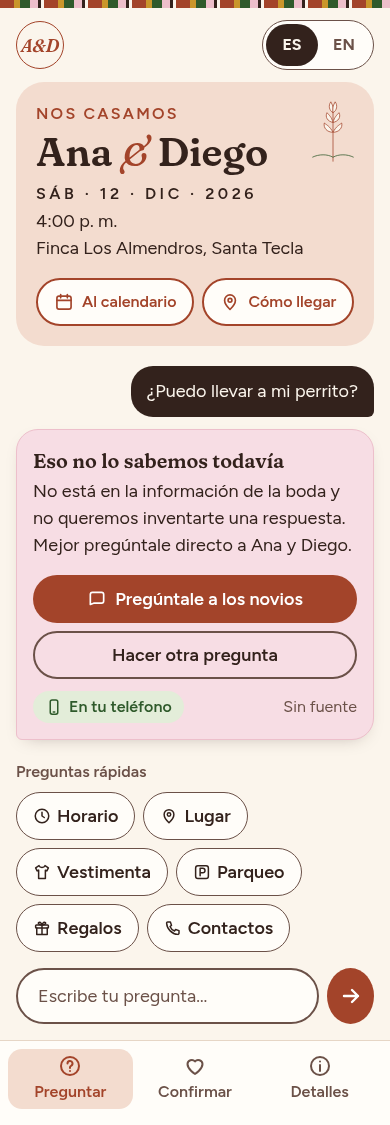
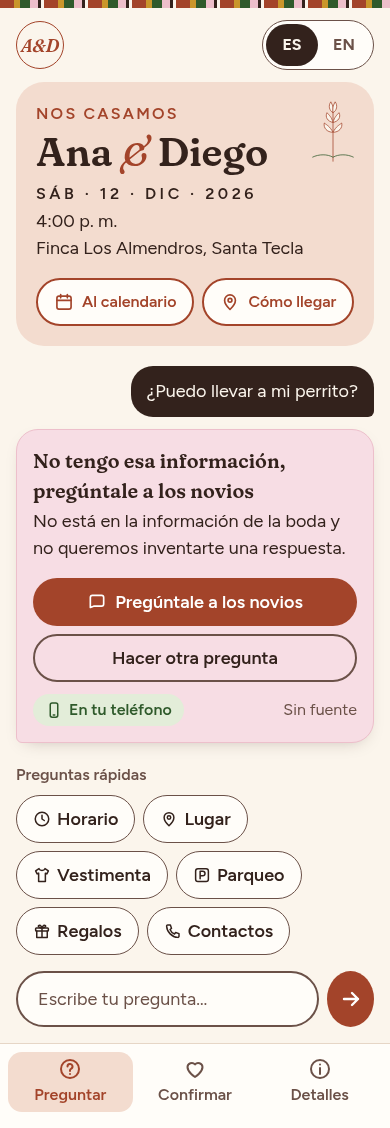
Update idk screen copy and tokens spec

diff --git a/design/screens/guest-qa-idk.html b/design/screens/guest-qa-idk.html
@@ -33,7 +33,7 @@
   <div class="row gap-2 g-hero-actions"><a class="btn btn-secondary"><svg width="20" height="20" viewBox="0 0 24 24" fill="none" stroke="currentColor" stroke-width="2" stroke-linecap="round" stroke-linejoin="round" aria-hidden="true"><rect x="3.5" y="5" width="17" height="15.5" rx="2.5"/><path d="M3.5 10h17M8 3v4M16 3v4"/></svg>Al calendario</a><a class="btn btn-secondary"><svg width="20" height="20" viewBox="0 0 24 24" fill="none" stroke="currentColor" stroke-width="2" stroke-linecap="round" stroke-linejoin="round" aria-hidden="true"><path d="M12 21s-6.5-6-6.5-11a6.5 6.5 0 0 1 13 0c0 5-6.5 11-6.5 11z"/><circle cx="12" cy="10" r="2.3"/></svg>Cómo llegar</a></div>
 </section><main class="g-main" aria-live="polite">
 <div class="bubble-q">¿Puedo llevar a mi perrito?</div>
-<div class="bubble-a" style="border-color:var(--color-accent);background:var(--color-accent-soft)"><h4>Eso no lo sabemos todavía</h4>No está en la información de la boda y no queremos inventarte una respuesta. Mejor pregúntale directo a Ana y Diego.
+<div class="bubble-a" style="border-color:var(--color-accent);background:var(--color-accent-soft)"><h4>No tengo esa información, pregúntale a los novios</h4>No está en la información de la boda y no queremos inventarte una respuesta.
 <div class="stack gap-2" style="margin-top:var(--space-4)"><a class="btn btn-primary btn-block"><svg width="20" height="20" viewBox="0 0 24 24" fill="none" stroke="currentColor" stroke-width="2" stroke-linecap="round" stroke-linejoin="round" aria-hidden="true"><path d="M4 18.5V6.5A2.5 2.5 0 0 1 6.5 4h11A2.5 2.5 0 0 1 20 6.5v8a2.5 2.5 0 0 1-2.5 2.5H8z"/></svg>Pregúntale a los novios</a><a class="btn btn-quiet btn-block">Hacer otra pregunta</a></div>
 <div class="foot"><span class="badge badge-device"><svg width="18" height="18" viewBox="0 0 24 24" fill="none" stroke="currentColor" stroke-width="2" stroke-linecap="round" stroke-linejoin="round" aria-hidden="true"><rect x="7" y="2.5" width="10" height="19" rx="2.5"/><path d="M11 18.5h2"/></svg>En tu teléfono</span><span class="sm muted">Sin fuente</span></div></div></main><section class="g-quick"><h2>Preguntas rápidas</h2><div class="row wrap gap-2"><button class="chip"><svg width="18" height="18" viewBox="0 0 24 24" fill="none" stroke="currentColor" stroke-width="2" stroke-linecap="round" stroke-linejoin="round" aria-hidden="true"><circle cx="12" cy="12" r="9"/><path d="M12 7v5l3 2"/></svg>Horario</button><button class="chip"><svg width="18" height="18" viewBox="0 0 24 24" fill="none" stroke="currentColor" stroke-width="2" stroke-linecap="round" stroke-linejoin="round" aria-hidden="true"><path d="M12 21s-6.5-6-6.5-11a6.5 6.5 0 0 1 13 0c0 5-6.5 11-6.5 11z"/><circle cx="12" cy="10" r="2.3"/></svg>Lugar</button><button class="chip"><svg width="18" height="18" viewBox="0 0 24 24" fill="none" stroke="currentColor" stroke-width="2" stroke-linecap="round" stroke-linejoin="round" aria-hidden="true"><path d="M8 3.5l-4.5 3 2 4 2-1V20.5h9V9.5l2 1 2-4-4.5-3c-.5 1.5-2 2.5-4 2.5s-3.5-1-4-2.5z"/></svg>Vestimenta</button><button class="chip"><svg width="18" height="18" viewBox="0 0 24 24" fill="none" stroke="currentColor" stroke-width="2" stroke-linecap="round" stroke-linejoin="round" aria-hidden="true"><rect x="3.5" y="3.5" width="17" height="17" rx="3"/><path d="M9.5 17V7h3.5a3 3 0 0 1 0 6H9.5"/></svg>Parqueo</button><button class="chip"><svg width="18" height="18" viewBox="0 0 24 24" fill="none" stroke="currentColor" stroke-width="2" stroke-linecap="round" stroke-linejoin="round" aria-hidden="true"><rect x="3.5" y="8" width="17" height="4" rx="1"/><path d="M5 12v8.5h14V12M12 8v12.5M12 8S10.5 3.5 8 4.5 9 8 12 8zm0 0s1.5-4.5 4-3.5S15 8 12 8z"/></svg>Regalos</button><button class="chip"><svg width="18" height="18" viewBox="0 0 24 24" fill="none" stroke="currentColor" stroke-width="2" stroke-linecap="round" stroke-linejoin="round" aria-hidden="true"><path d="M5 4h3.5l1.5 4.5-2 1.5a11 11 0 0 0 6 6l1.5-2L20 15.5V19a1.5 1.5 0 0 1-1.6 1.5C10.5 20 4 13.5 3.5 5.6A1.5 1.5 0 0 1 5 4z"/></svg>Contactos</button></div></section><div class="g-composer"><div class="input placeholder">Escribe tu pregunta…</div><button class="btn btn-icon" aria-label="Enviar"><svg width="24" height="24" viewBox="0 0 24 24" fill="none" stroke="currentColor" stroke-width="2.4" stroke-linecap="round" stroke-linejoin="round" aria-hidden="true"><path d="M5 12h14M13 6l6 6-6 6"/></svg></button></div><nav class="tabbar"><a class="on"><svg width="24" height="24" viewBox="0 0 24 24" fill="none" stroke="currentColor" stroke-width="2" stroke-linecap="round" stroke-linejoin="round" aria-hidden="true"><circle cx="12" cy="12" r="9"/><path d="M9.5 9.5a2.5 2.5 0 1 1 3.5 2.3c-.7.3-1 .8-1 1.5v.7M12 17h.01"/></svg>Preguntar</a><a class=""><svg width="24" height="24" viewBox="0 0 24 24" fill="none" stroke="currentColor" stroke-width="2" stroke-linecap="round" stroke-linejoin="round" aria-hidden="true"><path d="M12 20s-7.5-4.6-7.5-10A4.3 4.3 0 0 1 12 7.4 4.3 4.3 0 0 1 19.5 10C19.5 15.4 12 20 12 20z"/></svg>Confirmar</a><a class=""><svg width="24" height="24" viewBox="0 0 24 24" fill="none" stroke="currentColor" stroke-width="2" stroke-linecap="round" stroke-linejoin="round" aria-hidden="true"><circle cx="12" cy="12" r="9"/><path d="M12 11v6M12 7.5h.01"/></svg>Detalles</a></nav>
 </body></html>

diff --git a/design/tokens/tokens.md b/design/tokens/tokens.md
@@ -163,7 +163,7 @@ This is the key hybrid-AI element. It goes on every AI answer and every parsed r
 - **Offline:** a `.banner-offline` banner (cacao background, wifi-off icon) at the top of the chat reads "Sin señal. Igual te respondemos desde tu teléfono…". The composer stays enabled, and the answers carry "En tu teléfono".
 - **Cloud fallback:** a `.banner-info` banner (gold) appears once per session when the device has no on-device model.
 - **I don't know:**
-  - The bubble has an accent-soft background and border, and the title "Eso no lo sabemos todavía".
+  - The bubble has an accent-soft background and border, and the title exactly "No tengo esa información, pregúntale a los novios" (locked copy, must match the eval gold answer).
   - It has a primary **"Pregúntale a los novios"** button, which opens WhatsApp to the couple's contact from `wedding_info.json → contacts`.
   - Below it is a quiet "Hacer otra pregunta" button.
   - It still carries the source badge.
